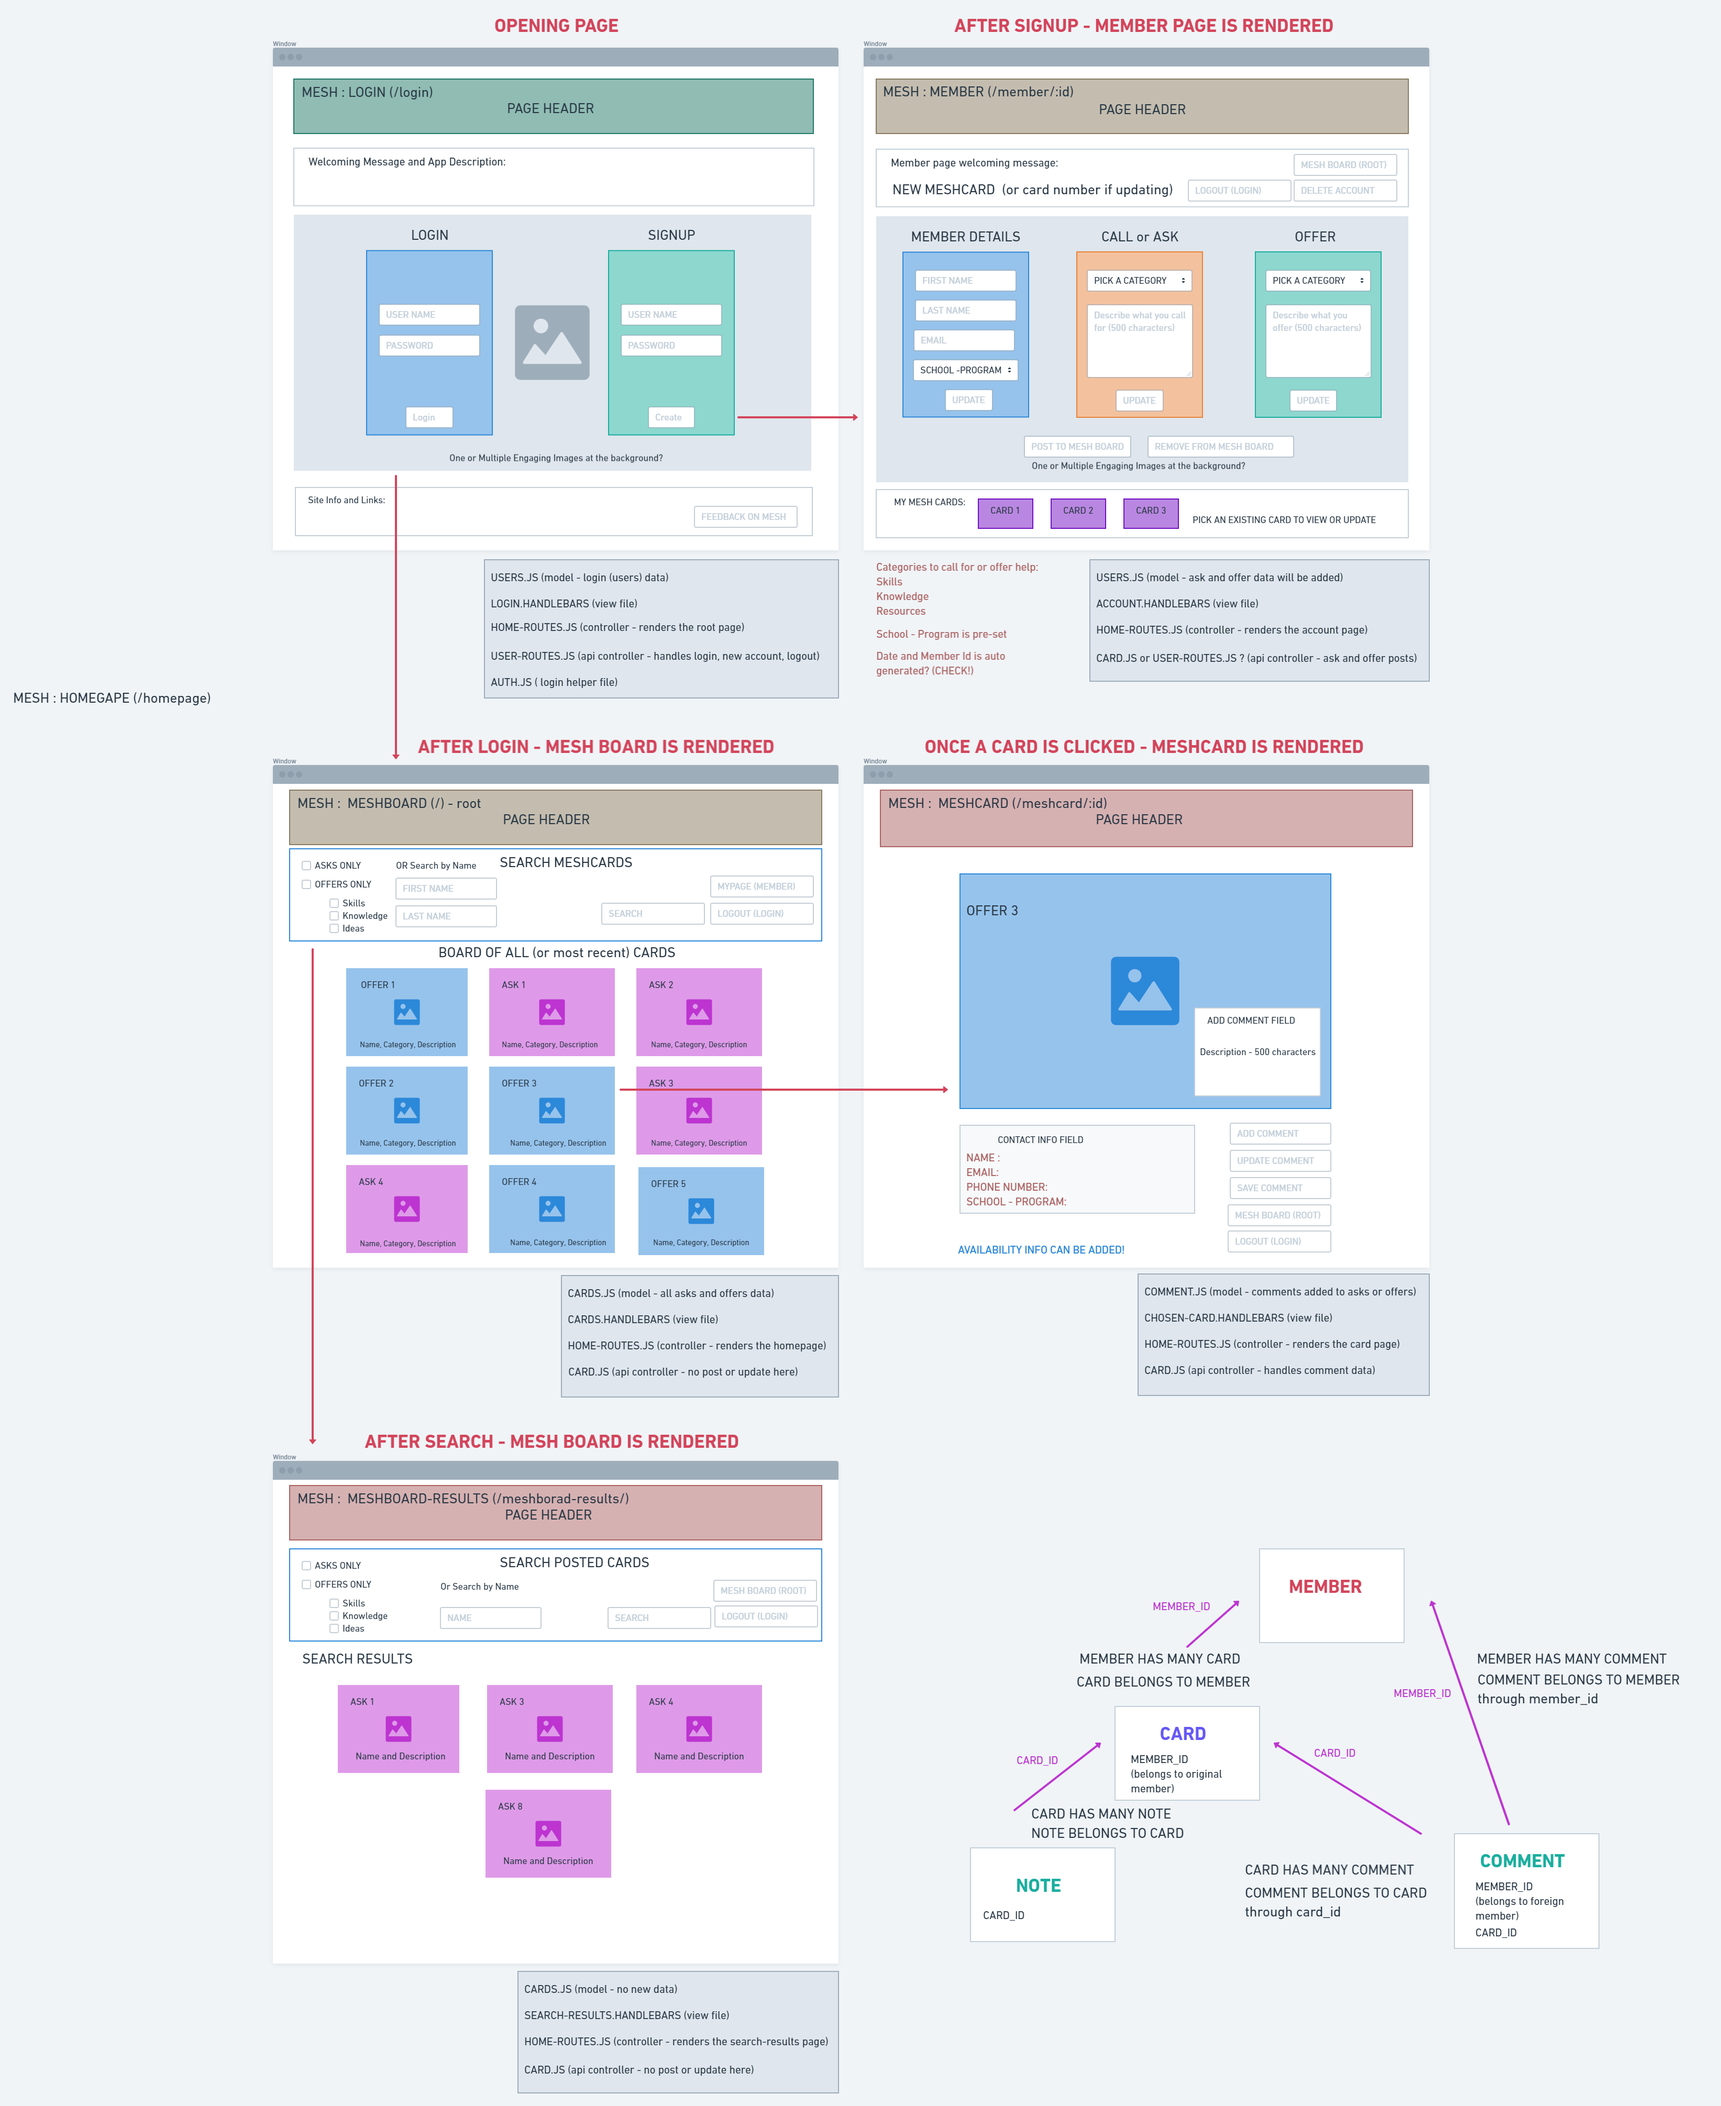
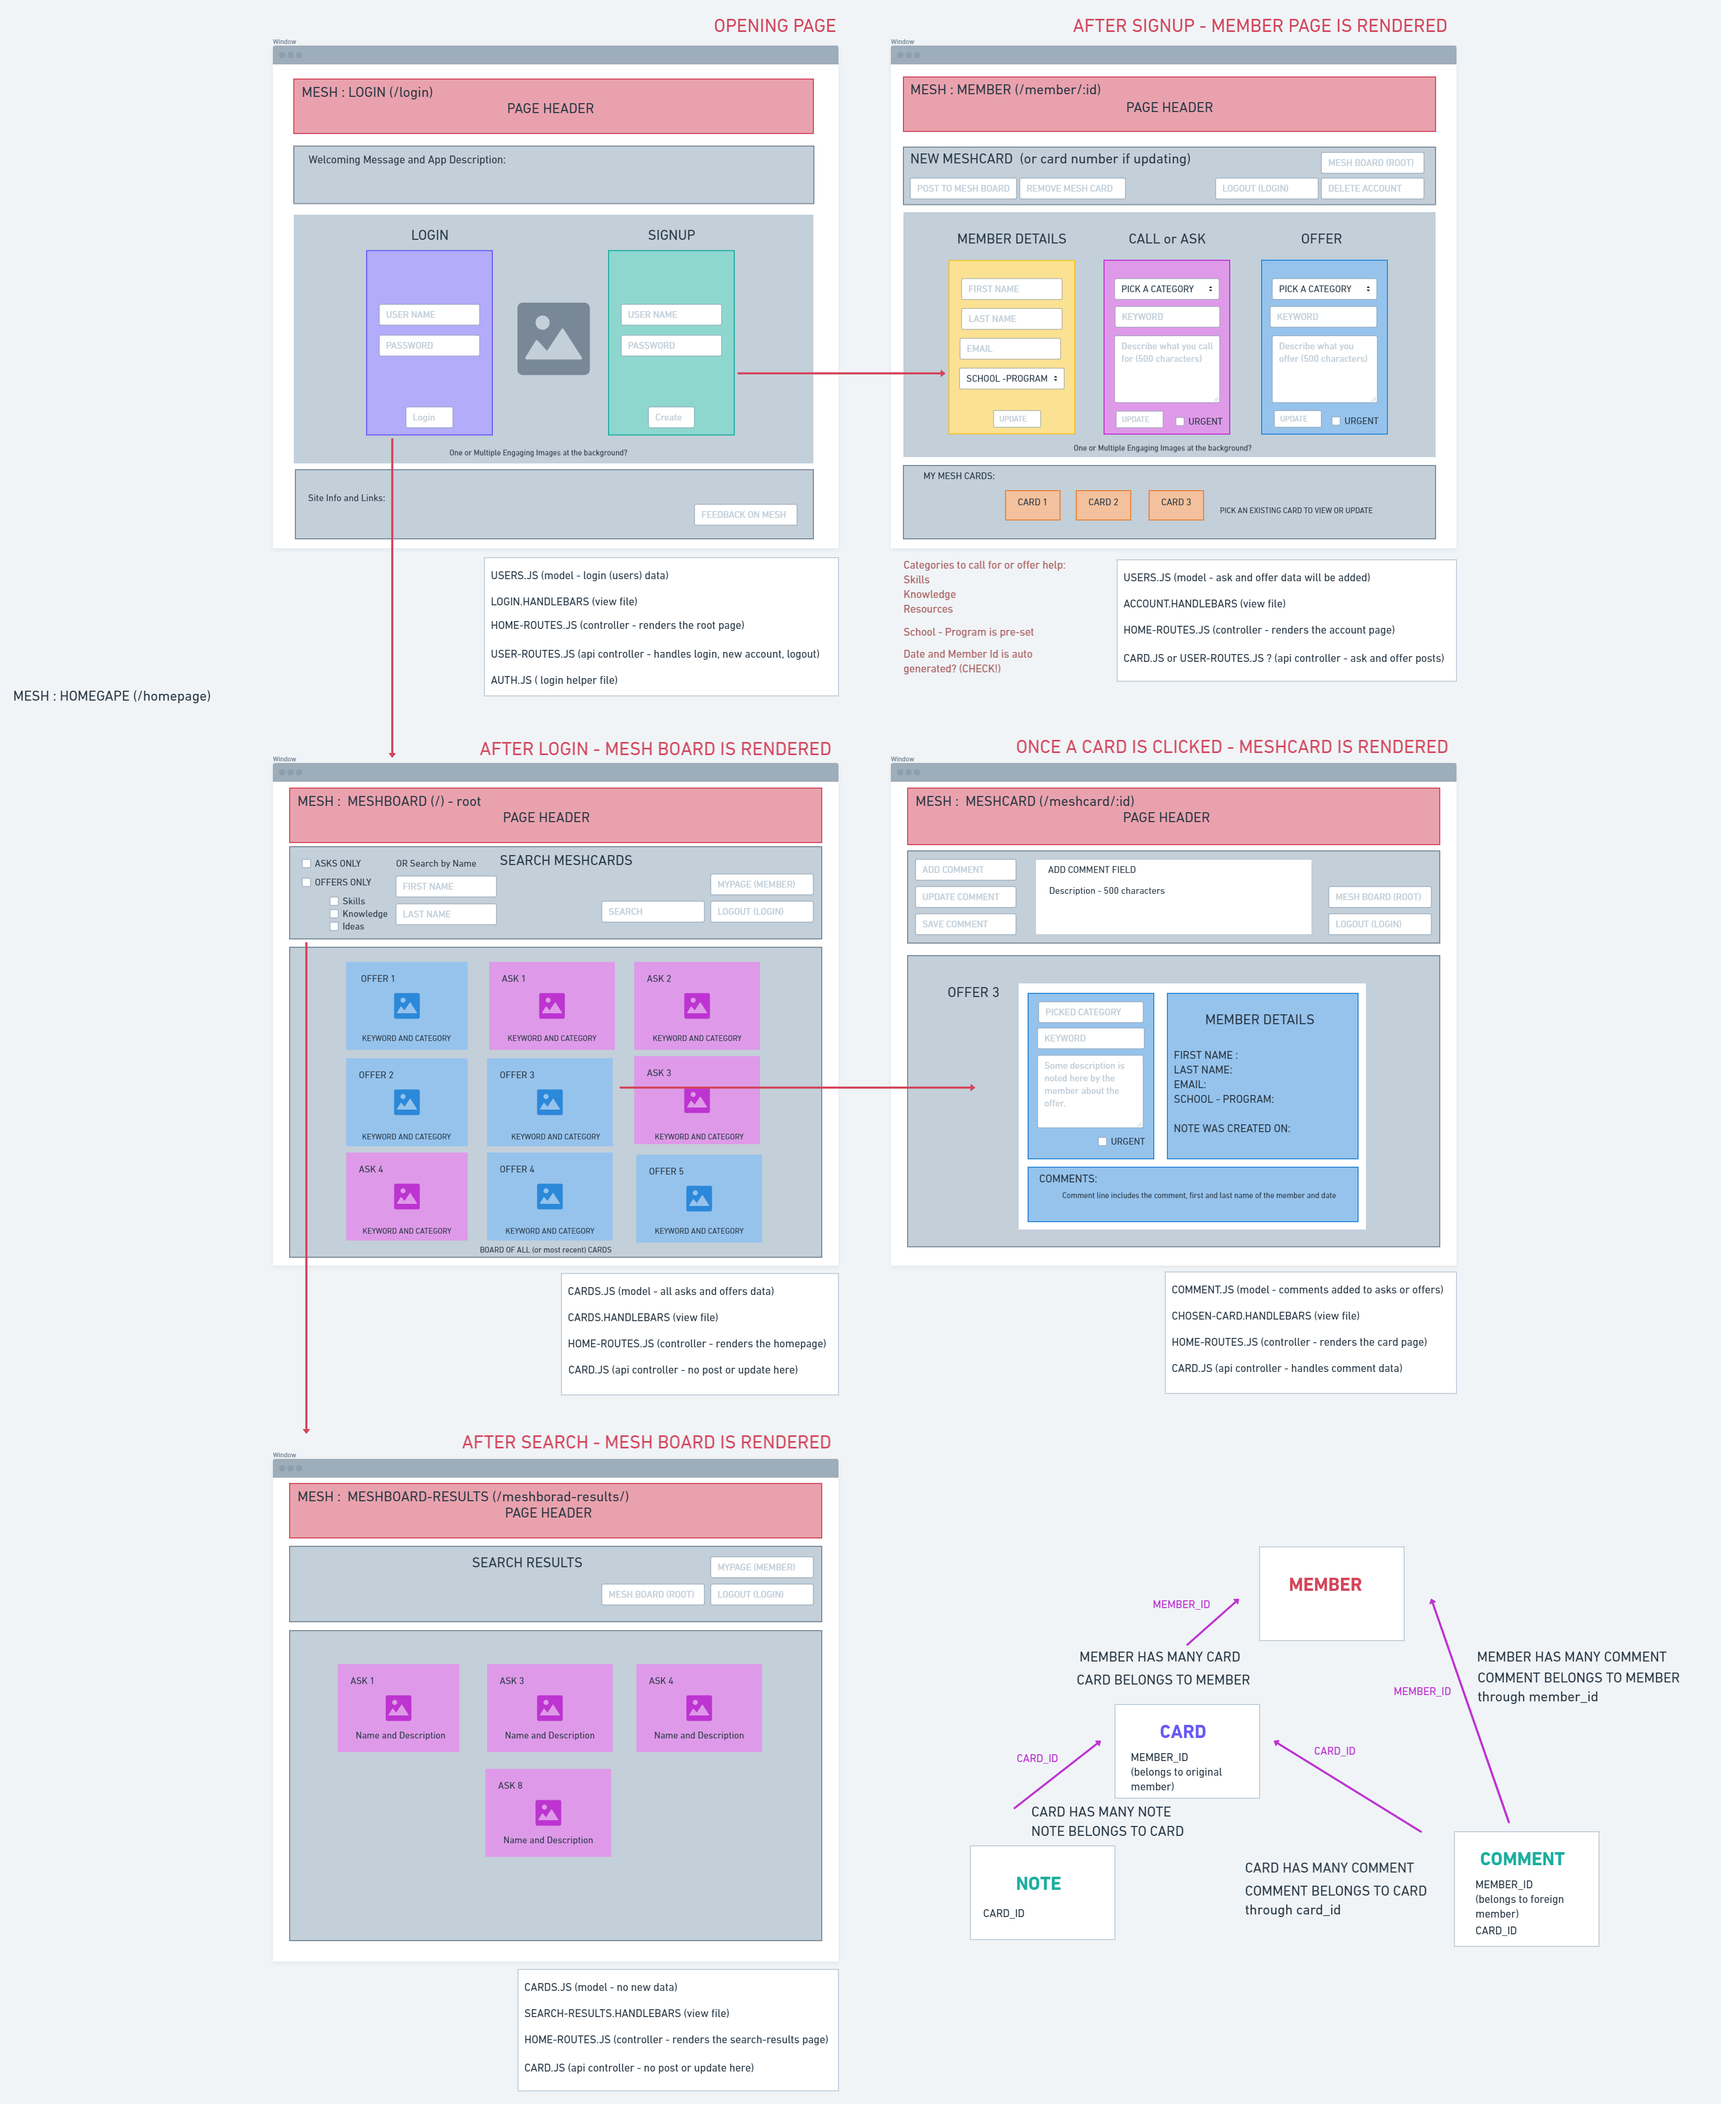
all model files are completed, wireframe updated - see README or whimsical link

diff --git a/models/Comment.js b/models/Comment.js
@@ -13,35 +13,52 @@ Comments.init(
       primaryKey: true,
       autoIncrement: true,
     },
-    dish_name: {
+
+  // TO DO! limit the number of characters to 500 in descriptions, now it is 255 words?
+    call_comment: {
       type: DataTypes.STRING,
-      allowNull: false,
-    },
-    description: {
-      type: DataTypes.TEXT,
       allowNull: true,
     },
-    guest_name: {
+    offer_comment: {
       type: DataTypes.STRING,
-      allowNull: false,
+      allowNull: true,
     },
-    has_nuts: {
-      type: DataTypes.BOOLEAN,
+
+  // TO DO! turn type into .DATEONLY after checking .DATE
+    date_created: {
+      type: DataTypes.DATE,
+      allowNull: false,
+      defaultValue: DataTypes.NOW,
+    },
+    member_id: {
+      type: DataTypes.INTEGER,
+      references: {
+        model: 'member',
+        key: 'id',
+      },
+    },
+    card_id: {
+      type: DataTypes.INTEGER,
+      references: {
+        model: 'card',
+        key: 'id',
+      },
     },
   },
   {
     sequelize,
+    timestamps: false,
     freezeTableName: true,
     underscored: true,
-    modelName: 'dish',
+    modelName: 'comment',
   }
 );
 
-module.exports = Comments;
+module.exports = Comment;
 
-description: {
-  type: DataTypes.STRING,
-},
+// is_: {
+//   type: DataTypes.BOOLEAN,
+// },
 
     
 

diff --git a/models/Note.js b/models/Note.js
@@ -16,7 +16,7 @@ Note.init(
       allowNull: false,
     },
 
-    // TO DO! limit the number of characters to 500 in descriptions
+    // TO DO! limit the number of characters to 500 in descriptions, now it is 255 words?
     call_description: {
       type: DataTypes.STRING,
       allowNull: false,
@@ -41,8 +41,8 @@ Note.init(
     // is_urgent: {
     //   type: DataTypes.BOOLEAN,
     // },
-    
-    member_id: {
+
+    card_id: {
       type: DataTypes.INTEGER,
       references: {
         model: 'card',
